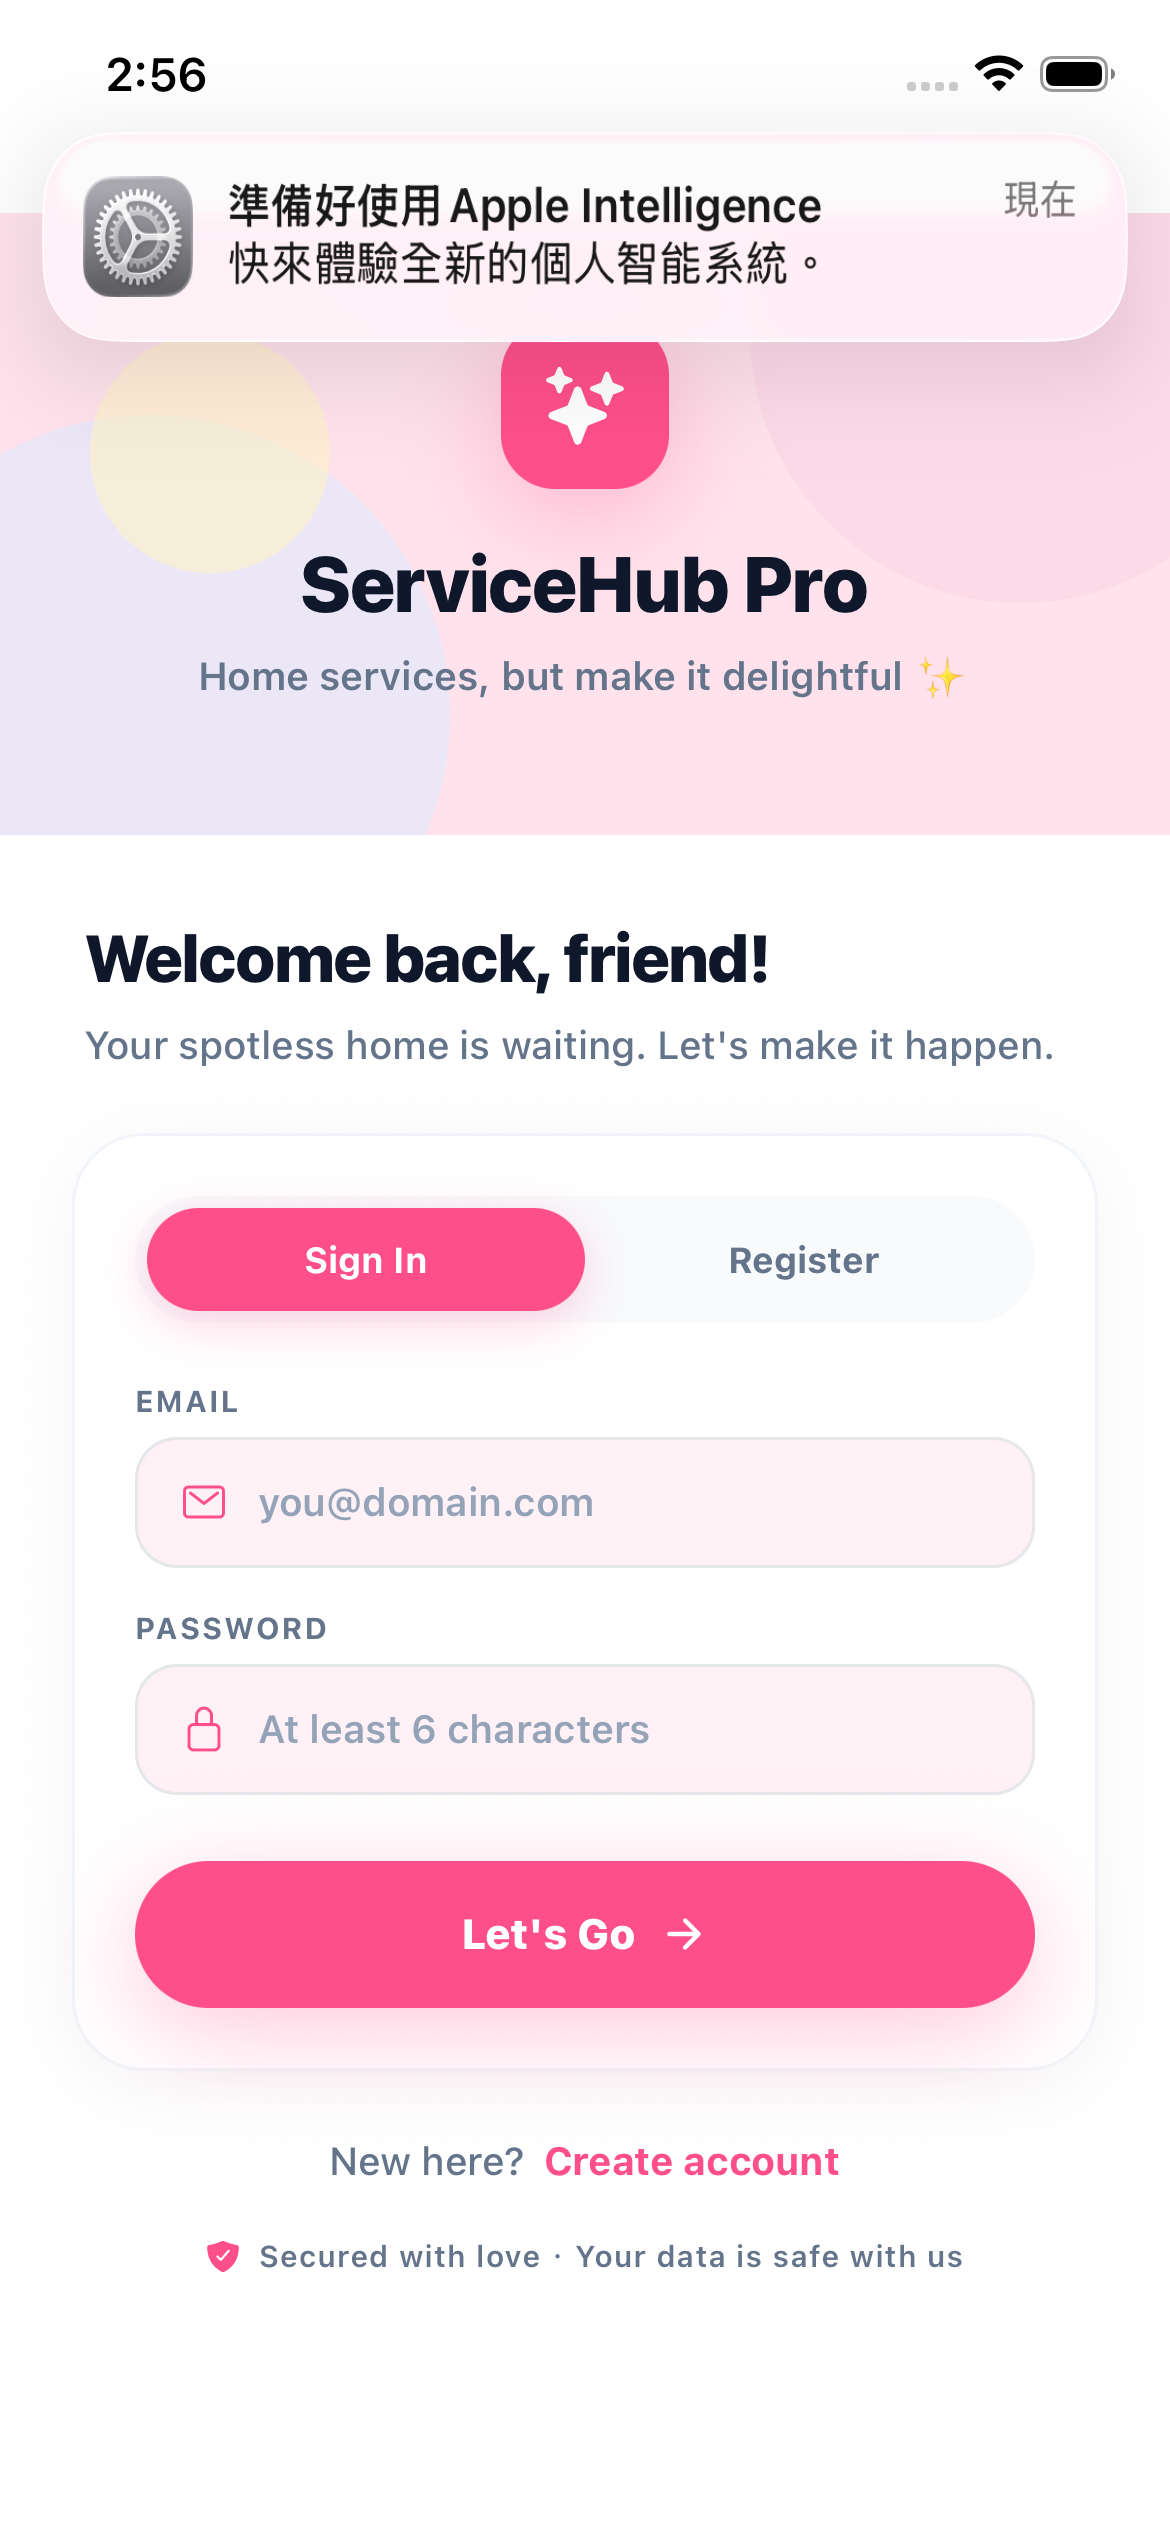
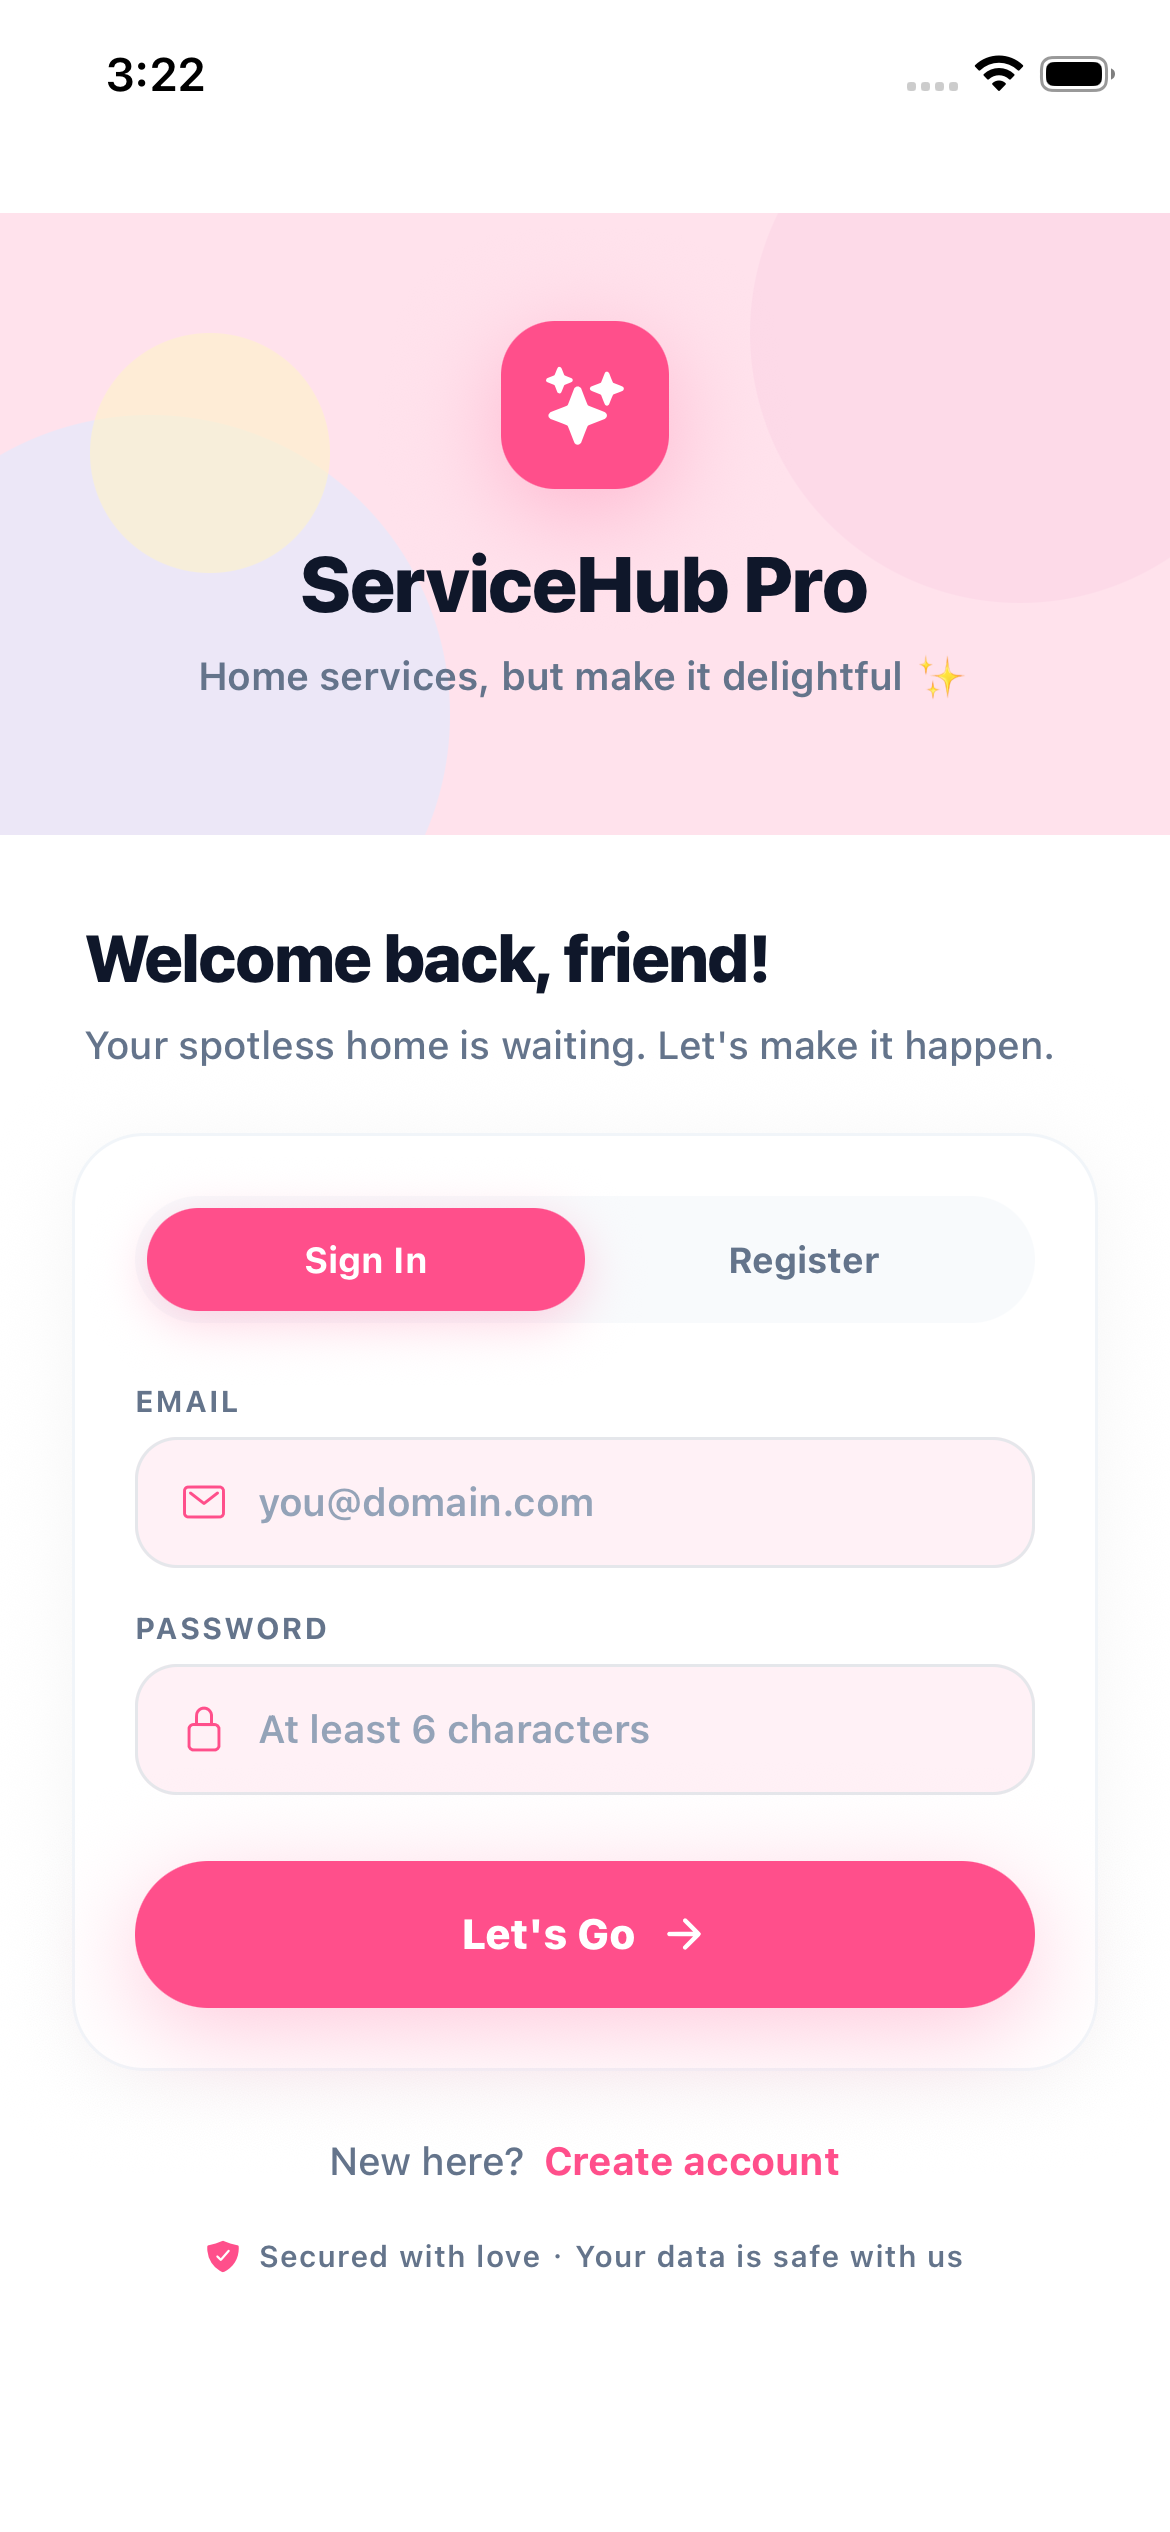
docs: retake iOS app screenshots without notification, add customer/technician pages
- Replace app-login-ios.png with clean version (no Apple Intelligence banner)

- Add app-customer-home-ios.png (signed-in customer home tab)

- Add app-technician-jobs-ios.png (signed-in technician jobs dashboard)

- Update README Preview section with login/customer/technician grid

Changed region(s): [[0.0615, 0.0624, 0.7077, 0.156], [0.8615, 0.0624, 0.9231, 0.0936], [0.1231, 0.0, 0.1846, 0.0312]]

diff --git a/README.md b/README.md
@@ -139,18 +139,23 @@ The repository also includes a polished static admin dashboard template in `webs
 
 > These four shots are from the included static template, not the live React admin dashboard. They are included to show the dashboard UI direction; the actual production admin console requires admin authentication.
 
-### Mobile app — iOS login screen
+### Mobile app — iOS
 
-![ServiceHub Pro mobile login](docs/screenshots/app-login-ios.png)
+The React Native app opens on the **Sign In** screen. New users can switch to **Register** to create a customer or technician account. After signing in, customers land on the home tab and technicians land on their jobs dashboard.
 
-The React Native app opens on the **Sign In** screen. New users can switch to **Register** to create a customer or technician account. Run it locally with:
+| Login | Customer Home | Technician Dashboard |
+|---|---|---|
+| ![ServiceHub Pro mobile login](docs/screenshots/app-login-ios.png) | ![ServiceHub Pro customer home](docs/screenshots/app-customer-home-ios.png) | ![ServiceHub Pro technician jobs](docs/screenshots/app-technician-jobs-ios.png) |
+| Sign in or create an account | Browse services, active bookings, and recommended technicians | Manage jobs, availability, and earnings |
+
+Run it locally with:
 
 ```bash
 npm install
 npm run ios   # or npm run android / npm start for Expo Go
 ```
 
-> Shot captured from the iOS Simulator running a release build of the app.
+> Shots captured from the iOS Simulator running a release build of the app.
 
 ---
 